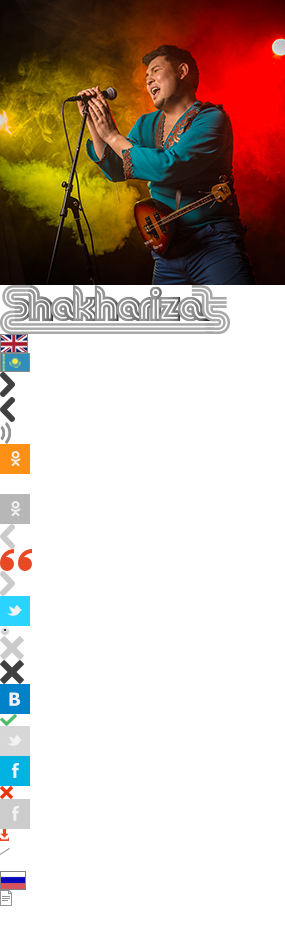
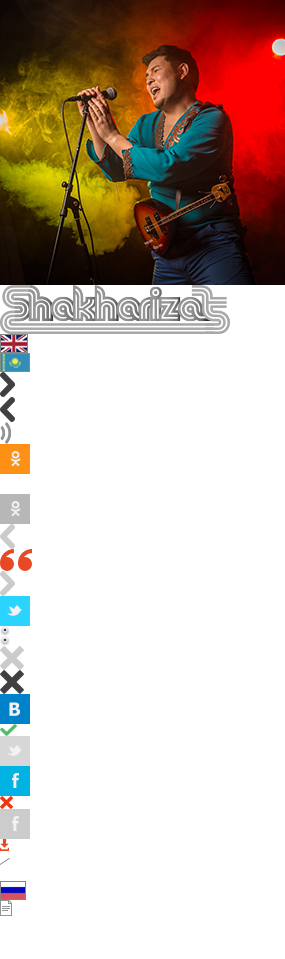
music page

diff --git a/css/style.css b/css/style.css
@@ -1,1 +1,1 @@
-@font-face{font-family:'helveticaneuecyrmedium';src:url("fonts/helveticaneuecyr-medium-webfont.eot");src:url("fonts/helveticaneuecyr-medium-webfont.eot?#iefix") format("embedded-opentype"),url("fonts/helveticaneuecyr-medium-webfont.woff") format("woff"),url("fonts/helveticaneuecyr-medium-webfont.ttf") format("truetype");font-weight:normal;font-style:normal}@font-face{font-family:'helveticaneuecyrroman';src:url("fonts/helveticaneuecyr-roman-webfont.eot");src:url("fonts/helveticaneuecyr-roman-webfont.eot?#iefix") format("embedded-opentype"),url("fonts/helveticaneuecyr-roman-webfont.woff") format("woff"),url("fonts/helveticaneuecyr-roman-webfont.ttf") format("truetype");font-weight:normal;font-style:normal}.icons-sprite,.icons-close,.icons-doc,.icons-download,.icons-en,.icons-fb,.icons-film,.icons-green-mark,.icons-it,.icons-kav,.icons-kz,.icons-logo,.icons-microphone,.icons-music,.icons-next,.icons-od,.icons-pause,.icons-pic_mid2,.icons-play,.icons-prev,.icons-rec-cross,.icons-ru,.icons-tw,.icons-vk,.icons-volume,.fancybox-close,.fancybox-prev,.fancybox-next,.events-news .box.mus:after,.events-news .box.micr:after,.events-news .box.video:after{background:url('../img/icons.png') no-repeat}.icons-close{background-position:0 -636px;height:24px;width:24px}.icons-close:hover,.icons-close.close_hover,.icons-close.close-hover{background-position:0 -660px}.icons-doc{background-position:0 -890px;height:16px;width:12px}.icons-doc:hover,.icons-doc.doc_hover,.icons-doc.doc-hover{background-position:0 -921px}.icons-download{background-position:0 -829px;height:12px;width:9px}.icons-en{background-position:0 -334px;height:19px;width:28px}.icons-fb{background-position:0 -799px;height:30px;width:30px}.icons-fb:hover,.icons-fb.fb_hover,.icons-fb.fb-hover{background-position:0 -756px}.icons-film{background-position:0 -906px;height:15px;width:16px}.icons-green-mark{background-position:0 -714px;height:12px;width:17px}.icons-it{background-position:0 -626px;height:10px;width:10px}.icons-kav{background-position:0 -549px;height:22px;width:32px}.icons-kz{background-position:0 -353px;height:19px;width:30px}.icons-logo{background-position:0 -285px;height:49px;width:230px}.icons-microphone{background-position:0 -474px;height:20px;width:15px}.icons-music{background-position:0 -855px;height:16px;width:16px}.icons-next{background-position:0 -571px;height:25px;width:15px}.icons-next:hover,.icons-next.next_hover,.icons-next.next-hover{background-position:0 -372px}.icons-od{background-position:0 -494px;height:30px;width:30px}.icons-od:hover,.icons-od.od_hover,.icons-od.od-hover{background-position:0 -444px}.icons-pause{background-position:0 -937px;height:12px;width:8px}.icons-pic_mid2{background-position:0 0;height:285px;width:285px}.icons-play{background-position:0 -841px;height:14px;width:10px}.icons-prev{background-position:0 -524px;height:25px;width:15px}.icons-prev:hover,.icons-prev.prev_hover,.icons-prev.prev-hover{background-position:0 -397px}.icons-rec-cross{background-position:0 -786px;height:13px;width:13px}.icons-ru{background-position:0 -871px;height:19px;width:26px}.icons-tw{background-position:0 -726px;height:30px;width:30px}.icons-tw:hover,.icons-tw.tw_hover,.icons-tw.tw-hover{background-position:0 -596px}.icons-vk{background-position:0 -684px;height:30px;width:30px}.icons-volume{background-position:0 -422px;height:22px;width:11px}.icon{text-indent:-9999em;display:inline-block}.header{margin-bottom:30px;padding-top:10px}.header .header-top{background:#272727;height:72px;margin-bottom:5px}.header .header-top .logo{float:left;margin-right:35px;display:block;position:relative;top:11px}.header .header-top nav a{display:block;line-height:72px;font-size:16px;float:left;color:#c1c0c0;text-decoration:none;position:relative;padding:0 10px;text-transform:uppercase}.header .header-top nav a:hover,.header .header-top nav a:focus{color:#fff}.header .header-top nav a.active{background:#e74924;border-bottom:2px solid #f8613a;line-height:70px;color:#fff}.header .header-top nav a.active:before{content:"";width:100%;height:10px;position:absolute;top:-10px;left:0;background:rgba(231,73,36,0.5)}.header .header-mid{background:url(../img/brd2.png) repeat-x 0 8px}.header .header-mid .header-mid-bg{background:#0f0f0f;color:#7e7e7e;float:left;margin-left:-5px;padding-left:5px;padding-right:5px;font-size:16px}.footer{margin-top:30px}.footer .footer-top{background:#1b1b1b;padding:30px 0}.footer .side45{float:left;width:45%;background:url(../img/border-footer.png) repeat-x 30px 0;padding-top:70px}.footer .side45 .footer-side45-content{float:right;width:390px;padding-right:40px}.footer .side65{float:left;width:55%}.footer .side65 .footer-side65-content{float:left;width:570px}.footer .side65 .footer-side65-content .title{font-size:48px;line-height:40px;text-align:right;color:#e1e1e1}.footer .side65 .footer-side65-content ul li{margin-bottom:5px;font-size:16px}.footer .side65 .footer-side65-content ul li a{color:#9c9c9c;text-decoration:underline}.footer .side65 .footer-side65-content ul li a:hover{color:#e95027}.footer .footer-bot{background:#272727;padding:20px 0 10px}.footer .footer-bot .lang{float:left}.footer .footer-bot .copyright{float:right}.footer .footer-bot .copyright a{text-decoration:none}.footer .sosials{float:right;margin-top:-50px}.footer .sosials a{-webkit-transition:none;-moz-transition:none;-o-transition:none;transition:none}.footer-search input{float:right;height:30px;padding:5px 10px;background:#4a4a4a;color:#AAA7A7;margin-right:5px;border:none;width:270px}.footer-search .search-btn{float:right;height:30px;border:none;line-height:30px;padding:0 10px;color:#fff;background:#e95027;font-size:18px}.tabs .tab-nav{margin-bottom:15px}.tabs .tab-nav:after{content:"";clear:both;display:table}.tabs .tab-nav a:first-child{float:left}.tabs .tab-nav a{float:right;width:48.5%;display:block;text-align:center;border-radius:3px;background:#a4a9ae;color:#fff;border-bottom:3px solid #83898f;font-size:14px;height:30px;line-height:30px;text-decoration:none;-webkit-transition:none;-moz-transition:none;-o-transition:none;transition:none}.tabs .tab-nav a.active{background:#4fc1e9;border-color:#3bafda}.btn{padding:0 10px;border-bottom:2px solid #f8613a;background:#e74924;text-transform:uppercase;color:#fff;display:inline-block;text-decoration:none;line-height:40px}.btn:hover,.btn:focus{border-bottom:2px solid #f8613a;background:#e9380f;color:#fff}.btn:active{border-bottom:2px solid #f8613a;background:#bd3110}.overlay{position:fixed;z-index:20;width:100%;height:100%;top:0;left:0;background:rgba(0,0,0,0.1)}.popup{top:50%;left:50%;position:fixed;z-index:21}/* fancyBox v2.1.5 fancyapps.com | fancyapps.com/fancybox/#license */.fancybox-wrap,.fancybox-skin,.fancybox-outer,.fancybox-inner,.fancybox-image,.fancybox-wrap iframe,.fancybox-wrap object,.fancybox-nav,.fancybox-nav,.fancybox-tmp{padding:0;margin:0;border:0;outline:none;vertical-align:top}.fancybox-wrap{position:absolute;top:0;left:0;z-index:8020}.fancybox-skin{position:relative;background:#f9f9f9;color:#444;padding:60px 20px 20px !important;text-shadow:none}.fancybox-opened{z-index:8030}.fancybox-opened .fancybox-skin{-webkit-box-shadow:0 10px 25px rgba(0,0,0,0.5);-moz-box-shadow:0 10px 25px rgba(0,0,0,0.5);box-shadow:0 10px 25px rgba(0,0,0,0.5)}.fancybox-outer,.fancybox-inner{position:relative}.fancybox-inner{overflow:hidden}.fancybox-type-iframe .fancybox-inner{-webkit-overflow-scrolling:touch}.fancybox-error{color:#444;font:14px/20px "Helvetica Neue",Helvetica,Arial,sans-serif;margin:0;padding:15px;white-space:nowrap}.fancybox-image,.fancybox-iframe{display:block;width:100%;height:100%}.fancybox-image{max-width:100%;max-height:100%}#fancybox-loading{background-image:url("../css/fancybox_sprite.png")}#fancybox-loading{position:fixed;top:50%;left:50%;margin-top:-22px;margin-left:-22px;background-position:0 -108px;opacity:0.8;cursor:pointer;z-index:8060}#fancybox-loading div{width:44px;height:44px;background:url("../css/fancybox_loading.gif") center center no-repeat}.fancybox-close{position:absolute;top:20px;right:20px;width:24px;height:24px;cursor:pointer;z-index:8070;background-position:0 -636px}.fancybox-close:hover,.fancybox-close.close_hover,.fancybox-close.close-hover{background-position:0 -660px}.fancybox-nav{position:absolute;top:-40px;width:15px;height:25px;cursor:pointer;text-decoration:none;-webkit-tap-highlight-color:rgba(0,0,0,0);z-index:8070;-webkit-transition:none;-moz-transition:none;-o-transition:none;transition:none}.fancybox-prev{right:80px;background-position:0 -524px}.fancybox-prev:hover,.fancybox-prev.prev_hover,.fancybox-prev.prev-hover{background-position:0 -397px}.fancybox-next{right:45px;background-position:0 -571px}.fancybox-next:hover,.fancybox-next.next_hover,.fancybox-next.next-hover{background-position:0 -372px}.fancybox-nav span{cursor:pointer;z-index:8040}.fancybox-prev span{left:7px}.fancybox-tmp{position:absolute;top:-99999px;left:-99999px;max-width:99999px;max-height:99999px;overflow:visible !important}.fancybox-lock{overflow:hidden !important;width:auto}.fancybox-lock body{overflow:hidden !important}.fancybox-lock-test{overflow-y:hidden !important}.fancybox-overlay{position:absolute;top:0;left:0;overflow:hidden;display:none;z-index:8010;background:url("../css/fancybox_overlay.png")}.fancybox-overlay-fixed{position:fixed;bottom:0;right:0}.fancybox-lock .fancybox-overlay{overflow:auto;overflow-y:scroll}.fancybox-title{position:absolute;padding:0 20px;top:20px;left:0;width:100%;height:48px;font-size:24px;text-shadow:none;z-index:8050}.fancybox-opened .fancybox-title{visibility:visible}.fancybox-title-float-wrap{position:absolute;bottom:0;right:50%;margin-bottom:-35px;z-index:8050;text-align:center}.fancybox-title-float-wrap .child{display:inline-block;margin-right:-100%;padding:2px 20px;background:transparent;background:rgba(0,0,0,0.8);-webkit-border-radius:15px;-moz-border-radius:15px;border-radius:15px;text-shadow:0 1px 2px #222;color:#FFF;font-weight:bold;line-height:24px;white-space:nowrap}.fancybox-title-outside-wrap{position:relative;margin-top:10px;color:#fff}.fancybox-title-over-wrap{position:absolute;bottom:0;left:0;color:#fff;padding:10px;background:#000;background:rgba(0,0,0,0.8)}body{font-size:14px;color:#bdbdbd;line-height:18px;background:#0f0f0f;font-family:helveticaneuecyrroman}h1,h2,h3,h4,h5,h6{margin-top:0;color:#555;line-height:1;margin-bottom:20px}h1{font-size:36px}h2{font-size:28px}h3{font-size:24px}h3,h4,h5{font-size:18px}:focus{outline:none}a{-webkit-transition:all 0.3s ease-in-out;-moz-transition:all 0.3s ease-in-out;-o-transition:all 0.3s ease-in-out;transition:all 0.3s ease-in-out;text-decoration:underline;color:#e74924}a:hover,a:focus{color:#e74924;text-decoration:none}p{margin-bottom:0}textarea{resize:none;border:2px solid #e3e4e8;border-radius:3px;padding:10px;color:#707070;font-size:13px;line-height:16px}.cf:after,.header .header-top nav:after,.footer-search:after,.inn:after,.columns:after{content:"";display:table;clear:both}.mb10{margin-bottom:10px}.mb20{margin-bottom:20px}.right{float:right}.w960{width:960px;margin:0 auto;padding:0 10px}.w960:after{content:"";clear:both;display:table}.inn{width:960px;margin:0 auto}.index-big-pic{background:url(../img/pic.jpg) 50% 0;height:700px;height:440px;position:relative}.index-big-pic:before{content:"";background:url(../img/white_corner.png) no-repeat;width:105px;height:61px;z-index:2;position:absolute;top:0;left:0}.index-big-pic .white-t{position:absolute;top:110px;left:0;z-index:2;color:#fff;width:650px;font-size:48px;line-height:41px}.index-big-pic .orange-t{position:absolute;top:220px;left:0;z-index:2;color:#e74924;width:550px;font-size:48px;line-height:40px}.audio-player{margin-bottom:50px;height:60px;background:#272727}.heading-patter-lines{background:url(../img/lines.png) no-repeat 170px 10px}.heading-patter-lines h1{color:#e1e1e1;margin:0;padding-right:3px;background:#0f0f0f;float:left}.columns .column{width:50%;float:left}.columns .column:first-child{padding-right:10px}.columns .column:last-child{padding-left:10px}.index-small-galery{margin-top:40px}.index-small-galery>.cf,.header .header-top .index-small-galery>nav,.index-small-galery>.footer-search,.index-small-galery>.inn,.index-small-galery>.columns{margin-bottom:10px}.index-small-galery .cf>a,.index-small-galery .header .header-top nav>a,.header .header-top .index-small-galery nav>a,.index-small-galery .footer-search>a,.index-small-galery .inn>a,.index-small-galery .columns>a{display:block;float:left;margin-left:10px;position:relative}.index-small-galery .cf>a:after,.index-small-galery .header .header-top nav>a:after,.header .header-top .index-small-galery nav>a:after,.index-small-galery .footer-search>a:after,.index-small-galery .inn>a:after,.index-small-galery .columns>a:after{content:"";height:2px;background:rgba(225,225,225,0.5);left:0;bottom:0}.index-small-galery .cf>a:first-child,.index-small-galery .header .header-top nav>a:first-child,.header .header-top .index-small-galery nav>a:first-child,.index-small-galery .footer-search>a:first-child,.index-small-galery .inn>a:first-child,.index-small-galery .columns>a:first-child{margin-left:0}.index-small-galery .cf>a img,.index-small-galery .header .header-top nav>a img,.header .header-top .index-small-galery nav>a img,.index-small-galery .footer-search>a img,.index-small-galery .inn>a img,.index-small-galery .columns>a img{display:block;height:80px;width:110px}.index-small-galery .show-all{text-align:right}.events-news{margin:17px -10px 0}.events-news .box{width:225px;margin:0 10px 20px;float:left;height:160px;position:relative;text-align:right;overflow:hidden;background:#e1e1e1;padding:10px 10px 10px 20px}.events-news .box:before{content:"";background:url(../img/corner-top.png) no-repeat;width:84px;height:49px;top:0;left:0;z-index:1;position:absolute}.events-news .box:after{content:"";position:absolute;z-index:2}.events-news .box.mus:after{background-position:0 -855px;width:16px;height:16px;top:10px;left:8px}.events-news .box.micr:after{background-position:0 -474px;width:15px;height:20px;top:8px;left:10px}.events-news .box.video:after{background-position:0 -906px;width:16px;height:15px;top:8px;left:10px}.events-news .box.video img{display:block;float:left;width:225px;height:160px;margin:-10px 0 0 -20px}.events-news .box .date{color:#aeaeae}.events-news .box .title{padding-left:30px;margin:0 0 5px}.events-news .box .title,.events-news .box .title a{color:#323232;font-size:18px;text-decoration:none}.events-news .box .title:hover,.events-news .box .title a:hover{color:#e95027;text-decoration:none}.events-news .box .description{color:#707070;max-height:72px;overflow:hidden;text-overflow:ellipsis}.index-mid-galery{margin-top:30px}.index-mid-galery>.cf a,.header .header-top .index-mid-galery>nav a,.index-mid-galery>.footer-search a,.index-mid-galery>.inn a,.index-mid-galery>.columns a{display:block;float:left;margin-left:15px;width:141px;height:141px}.index-mid-galery>.cf a.active img,.header .header-top .index-mid-galery>nav a.active img,.index-mid-galery>.footer-search a.active img,.index-mid-galery>.inn a.active img,.index-mid-galery>.columns a.active img{border:2px solid #bd4322}.index-mid-galery>.cf a img,.header .header-top .index-mid-galery>nav a img,.index-mid-galery>.footer-search a img,.index-mid-galery>.inn a img,.index-mid-galery>.columns a img{width:100%;border:2px solid #0f0f0f;height:100%}.index-mid-galery .like-tamada{margin-top:20px;text-align:right}.content-left{float:left;width:560px}.aside-right{float:right;width:380px}.aside-right .heading{padding-left:25px;position:relative;color:#fff;margin-bottom:10px;font-size:18px}.aside-right .heading .icon{position:absolute;left:0;top:2px;z-index:2}.aside-right .feature-event{margin:0 0 20px}.aside-right .feature-event .date{margin-bottom:2px;color:#adadad}.aside-right .feature-event .date span{color:#e74924}.aside-right .feature-event .description{color:#fff}.albom{border:1px solid #363636;padding:10px;margin-bottom:20px}.albom .albom-pic{float:left;width:250px}.albom .albom-pic img{max-width:100%}.albom-info{padding-left:270px}.albom-info .albom-name{color:#fff;font-size:18px;margin-bottom:5px}.albom-info .download{font-weight:bold;margin-bottom:10px}.albom-info .text{color:#bdbdbd;line-height:24px}.mb10{margin-bottom:10px}.icons-download{margin-right:5px;top:2px;position:relative}
+@font-face{font-family:'helveticaneuecyrmedium';src:url("fonts/helveticaneuecyr-medium-webfont.eot");src:url("fonts/helveticaneuecyr-medium-webfont.eot?#iefix") format("embedded-opentype"),url("fonts/helveticaneuecyr-medium-webfont.woff") format("woff"),url("fonts/helveticaneuecyr-medium-webfont.ttf") format("truetype");font-weight:normal;font-style:normal}@font-face{font-family:'helveticaneuecyrroman';src:url("fonts/helveticaneuecyr-roman-webfont.eot");src:url("fonts/helveticaneuecyr-roman-webfont.eot?#iefix") format("embedded-opentype"),url("fonts/helveticaneuecyr-roman-webfont.woff") format("woff"),url("fonts/helveticaneuecyr-roman-webfont.ttf") format("truetype");font-weight:normal;font-style:normal}.icons-sprite,.icons-circle,.icons-close,.icons-doc,.icons-download,.icons-en,.icons-fb,.icons-film,.icons-green-mark,.icons-it,.icons-kav,.icons-kz,.icons-logo,.icons-microphone,.icons-music,.icons-next,.icons-od,.icons-pause,.icons-pic_mid2,.icons-play,.icons-prev,.icons-rec-cross,.icons-ru,.icons-tw,.icons-vk,.icons-volume,.fancybox-close,.fancybox-prev,.fancybox-next,.events-news .box.mus:after,.events-news .box.micr:after,.events-news .box.video:after{background:url('../img/icons.png') no-repeat}.icons-circle{background-position:0 -626px;height:10px;width:10px}.icons-close{background-position:0 -646px;height:24px;width:24px}.icons-close:hover,.icons-close.close_hover,.icons-close.close-hover{background-position:0 -670px}.icons-doc{background-position:0 -900px;height:16px;width:12px}.icons-doc:hover,.icons-doc.doc_hover,.icons-doc.doc-hover{background-position:0 -931px}.icons-download{background-position:0 -839px;height:12px;width:9px}.icons-en{background-position:0 -334px;height:19px;width:28px}.icons-fb{background-position:0 -809px;height:30px;width:30px}.icons-fb:hover,.icons-fb.fb_hover,.icons-fb.fb-hover{background-position:0 -766px}.icons-film{background-position:0 -916px;height:15px;width:16px}.icons-green-mark{background-position:0 -724px;height:12px;width:17px}.icons-it{background-position:0 -636px;height:10px;width:10px}.icons-kav{background-position:0 -549px;height:22px;width:32px}.icons-kz{background-position:0 -353px;height:19px;width:30px}.icons-logo{background-position:0 -285px;height:49px;width:230px}.icons-microphone{background-position:0 -474px;height:20px;width:15px}.icons-music{background-position:0 -865px;height:16px;width:16px}.icons-next{background-position:0 -571px;height:25px;width:15px}.icons-next:hover,.icons-next.next_hover,.icons-next.next-hover{background-position:0 -372px}.icons-od{background-position:0 -494px;height:30px;width:30px}.icons-od:hover,.icons-od.od_hover,.icons-od.od-hover{background-position:0 -444px}.icons-pause{background-position:0 -947px;height:12px;width:8px}.icons-pic_mid2{background-position:0 0;height:285px;width:285px}.icons-play{background-position:0 -851px;height:14px;width:10px}.icons-prev{background-position:0 -524px;height:25px;width:15px}.icons-prev:hover,.icons-prev.prev_hover,.icons-prev.prev-hover{background-position:0 -397px}.icons-rec-cross{background-position:0 -796px;height:13px;width:13px}.icons-ru{background-position:0 -881px;height:19px;width:26px}.icons-tw{background-position:0 -736px;height:30px;width:30px}.icons-tw:hover,.icons-tw.tw_hover,.icons-tw.tw-hover{background-position:0 -596px}.icons-vk{background-position:0 -694px;height:30px;width:30px}.icons-volume{background-position:0 -422px;height:22px;width:11px}.icon{text-indent:-9999em;display:inline-block}.header{margin-bottom:30px;padding-top:10px}.header .header-top{background:#272727;height:72px;margin-bottom:5px}.header .header-top .logo{float:left;margin-right:35px;display:block;position:relative;top:11px}.header .header-top nav a{display:block;line-height:72px;font-size:16px;float:left;color:#c1c0c0;text-decoration:none;position:relative;padding:0 10px;text-transform:uppercase}.header .header-top nav a:hover,.header .header-top nav a:focus{color:#fff}.header .header-top nav a.active{background:#e74924;border-bottom:2px solid #f8613a;line-height:70px;color:#fff}.header .header-top nav a.active:before{content:"";width:100%;height:10px;position:absolute;top:-10px;left:0;background:rgba(231,73,36,0.5)}.header .header-mid{background:url(../img/brd2.png) repeat-x 0 8px}.header .header-mid .header-mid-bg{background:#0f0f0f;color:#7e7e7e;float:left;margin-left:-5px;padding-left:5px;padding-right:5px;font-size:16px}.footer{margin-top:30px}.footer .footer-top{background:#1b1b1b;padding:30px 0}.footer .side45{float:left;width:45%;background:url(../img/border-footer.png) repeat-x 30px 0;padding-top:70px}.footer .side45 .footer-side45-content{float:right;width:390px;padding-right:40px}.footer .side65{float:left;width:55%}.footer .side65 .footer-side65-content{float:left;width:570px}.footer .side65 .footer-side65-content .title{font-size:48px;line-height:40px;text-align:right;color:#e1e1e1}.footer .side65 .footer-side65-content ul li{margin-bottom:5px;font-size:16px}.footer .side65 .footer-side65-content ul li a{color:#9c9c9c;text-decoration:underline}.footer .side65 .footer-side65-content ul li a:hover{color:#e95027}.footer .footer-bot{background:#272727;padding:20px 0 10px}.footer .footer-bot .lang{float:left}.footer .footer-bot .copyright{float:right}.footer .footer-bot .copyright a{text-decoration:none}.footer .sosials{float:right;margin-top:-50px}.footer .sosials a{-webkit-transition:none;-moz-transition:none;-o-transition:none;transition:none}.footer-search input{float:right;height:30px;padding:5px 10px;background:#4a4a4a;color:#AAA7A7;margin-right:5px;border:none;width:270px}.footer-search .search-btn{float:right;height:30px;border:none;line-height:30px;padding:0 10px;color:#fff;background:#e95027;font-size:18px}.tabs .tab-nav{margin-bottom:15px}.tabs .tab-nav:after{content:"";clear:both;display:table}.tabs .tab-nav a:first-child{float:left}.tabs .tab-nav a{float:right;width:48.5%;display:block;text-align:center;border-radius:3px;background:#a4a9ae;color:#fff;border-bottom:3px solid #83898f;font-size:14px;height:30px;line-height:30px;text-decoration:none;-webkit-transition:none;-moz-transition:none;-o-transition:none;transition:none}.tabs .tab-nav a.active{background:#4fc1e9;border-color:#3bafda}.btn{padding:0 10px;border-bottom:2px solid #f8613a;background:#e74924;text-transform:uppercase;color:#fff;display:inline-block;text-decoration:none;line-height:40px}.btn:hover,.btn:focus{border-bottom:2px solid #f8613a;background:#e9380f;color:#fff}.btn:active{border-bottom:2px solid #f8613a;background:#bd3110}.overlay{position:fixed;z-index:20;width:100%;height:100%;top:0;left:0;background:rgba(0,0,0,0.1)}.popup{top:50%;left:50%;position:fixed;z-index:21}/* fancyBox v2.1.5 fancyapps.com | fancyapps.com/fancybox/#license */.fancybox-wrap,.fancybox-skin,.fancybox-outer,.fancybox-inner,.fancybox-image,.fancybox-wrap iframe,.fancybox-wrap object,.fancybox-nav,.fancybox-nav,.fancybox-tmp{padding:0;margin:0;border:0;outline:none;vertical-align:top}.fancybox-wrap{position:absolute;top:0;left:0;z-index:8020}.fancybox-skin{position:relative;background:#f9f9f9;color:#444;padding:60px 20px 20px !important;text-shadow:none}.fancybox-opened{z-index:8030}.fancybox-opened .fancybox-skin{-webkit-box-shadow:0 10px 25px rgba(0,0,0,0.5);-moz-box-shadow:0 10px 25px rgba(0,0,0,0.5);box-shadow:0 10px 25px rgba(0,0,0,0.5)}.fancybox-outer,.fancybox-inner{position:relative}.fancybox-inner{overflow:hidden}.fancybox-type-iframe .fancybox-inner{-webkit-overflow-scrolling:touch}.fancybox-error{color:#444;font:14px/20px "Helvetica Neue",Helvetica,Arial,sans-serif;margin:0;padding:15px;white-space:nowrap}.fancybox-image,.fancybox-iframe{display:block;width:100%;height:100%}.fancybox-image{max-width:100%;max-height:100%}#fancybox-loading{background-image:url("../css/fancybox_sprite.png")}#fancybox-loading{position:fixed;top:50%;left:50%;margin-top:-22px;margin-left:-22px;background-position:0 -108px;opacity:0.8;cursor:pointer;z-index:8060}#fancybox-loading div{width:44px;height:44px;background:url("../css/fancybox_loading.gif") center center no-repeat}.fancybox-close{position:absolute;top:20px;right:20px;width:24px;height:24px;cursor:pointer;z-index:8070;background-position:0 -646px}.fancybox-close:hover,.fancybox-close.close_hover,.fancybox-close.close-hover{background-position:0 -670px}.fancybox-nav{position:absolute;top:-40px;width:15px;height:25px;cursor:pointer;text-decoration:none;-webkit-tap-highlight-color:rgba(0,0,0,0);z-index:8070;-webkit-transition:none;-moz-transition:none;-o-transition:none;transition:none}.fancybox-prev{right:80px;background-position:0 -524px}.fancybox-prev:hover,.fancybox-prev.prev_hover,.fancybox-prev.prev-hover{background-position:0 -397px}.fancybox-next{right:45px;background-position:0 -571px}.fancybox-next:hover,.fancybox-next.next_hover,.fancybox-next.next-hover{background-position:0 -372px}.fancybox-nav span{cursor:pointer;z-index:8040}.fancybox-prev span{left:7px}.fancybox-tmp{position:absolute;top:-99999px;left:-99999px;max-width:99999px;max-height:99999px;overflow:visible !important}.fancybox-lock{overflow:hidden !important;width:auto}.fancybox-lock body{overflow:hidden !important}.fancybox-lock-test{overflow-y:hidden !important}.fancybox-overlay{position:absolute;top:0;left:0;overflow:hidden;display:none;z-index:8010;background:url("../css/fancybox_overlay.png")}.fancybox-overlay-fixed{position:fixed;bottom:0;right:0}.fancybox-lock .fancybox-overlay{overflow:auto;overflow-y:scroll}.fancybox-title{position:absolute;padding:0 20px;top:20px;left:0;width:100%;height:48px;font-size:24px;text-shadow:none;z-index:8050}.fancybox-opened .fancybox-title{visibility:visible}.fancybox-title-float-wrap{position:absolute;bottom:0;right:50%;margin-bottom:-35px;z-index:8050;text-align:center}.fancybox-title-float-wrap .child{display:inline-block;margin-right:-100%;padding:2px 20px;background:transparent;background:rgba(0,0,0,0.8);-webkit-border-radius:15px;-moz-border-radius:15px;border-radius:15px;text-shadow:0 1px 2px #222;color:#FFF;font-weight:bold;line-height:24px;white-space:nowrap}.fancybox-title-outside-wrap{position:relative;margin-top:10px;color:#fff}.fancybox-title-over-wrap{position:absolute;bottom:0;left:0;color:#fff;padding:10px;background:#000;background:rgba(0,0,0,0.8)}body{font-size:14px;color:#bdbdbd;line-height:18px;background:#0f0f0f;font-family:helveticaneuecyrroman}h1,h2,h3,h4,h5,h6{margin-top:0;color:#555;line-height:1;margin-bottom:20px}h1{font-size:36px}h2{font-size:28px}h3{font-size:24px}h3,h4,h5{font-size:18px}:focus{outline:none}a{-webkit-transition:all 0.3s ease-in-out;-moz-transition:all 0.3s ease-in-out;-o-transition:all 0.3s ease-in-out;transition:all 0.3s ease-in-out;text-decoration:underline;color:#e74924}a:hover,a:focus{color:#e74924;text-decoration:none}p{margin-bottom:0}textarea{resize:none;border:2px solid #e3e4e8;border-radius:3px;padding:10px;color:#707070;font-size:13px;line-height:16px}.cf:after,.header .header-top nav:after,.footer-search:after,.inn:after,.columns:after{content:"";display:table;clear:both}.mb10{margin-bottom:10px}.mb20{margin-bottom:20px}.right{float:right}.w960{width:960px;margin:0 auto;padding:0 10px}.w960:after{content:"";clear:both;display:table}.inn{width:960px;margin:0 auto}.index-big-pic{background:url(../img/pic.jpg) 50% 0;height:700px;height:440px;position:relative}.index-big-pic:before{content:"";background:url(../img/white_corner.png) no-repeat;width:105px;height:61px;z-index:2;position:absolute;top:0;left:0}.index-big-pic .white-t{position:absolute;top:110px;left:0;z-index:2;color:#fff;width:650px;font-size:48px;line-height:41px}.index-big-pic .orange-t{position:absolute;top:220px;left:0;z-index:2;color:#e74924;width:550px;font-size:48px;line-height:40px}.audio-player{margin-bottom:50px;height:60px;background:#272727}.heading-patter-lines{background:url(../img/lines.png) no-repeat 170px 10px;margin-bottom:40px}.heading-patter-lines h1{color:#e1e1e1;margin:0;padding-right:3px;background:#0f0f0f;float:left}.columns .column{width:50%;float:left}.columns .column:first-child{padding-right:10px}.columns .column:last-child{padding-left:10px}.index-small-galery{margin-top:40px}.index-small-galery>.cf,.header .header-top .index-small-galery>nav,.index-small-galery>.footer-search,.index-small-galery>.inn,.index-small-galery>.columns{margin-bottom:10px}.index-small-galery .cf>a,.index-small-galery .header .header-top nav>a,.header .header-top .index-small-galery nav>a,.index-small-galery .footer-search>a,.index-small-galery .inn>a,.index-small-galery .columns>a{display:block;float:left;margin-left:10px;position:relative}.index-small-galery .cf>a:after,.index-small-galery .header .header-top nav>a:after,.header .header-top .index-small-galery nav>a:after,.index-small-galery .footer-search>a:after,.index-small-galery .inn>a:after,.index-small-galery .columns>a:after{content:"";height:2px;background:rgba(225,225,225,0.5);left:0;bottom:0}.index-small-galery .cf>a:first-child,.index-small-galery .header .header-top nav>a:first-child,.header .header-top .index-small-galery nav>a:first-child,.index-small-galery .footer-search>a:first-child,.index-small-galery .inn>a:first-child,.index-small-galery .columns>a:first-child{margin-left:0}.index-small-galery .cf>a img,.index-small-galery .header .header-top nav>a img,.header .header-top .index-small-galery nav>a img,.index-small-galery .footer-search>a img,.index-small-galery .inn>a img,.index-small-galery .columns>a img{display:block;height:80px;width:110px}.index-small-galery .show-all{text-align:right}.events-news{margin:17px -10px 0}.events-news .box{width:225px;margin:0 10px 20px;float:left;height:160px;position:relative;text-align:right;overflow:hidden;background:#e1e1e1;padding:10px 10px 10px 20px}.events-news .box:before{content:"";background:url(../img/corner-top.png) no-repeat;width:84px;height:49px;top:0;left:0;z-index:1;position:absolute}.events-news .box:after{content:"";position:absolute;z-index:2}.events-news .box.mus:after{background-position:0 -865px;width:16px;height:16px;top:10px;left:8px}.events-news .box.micr:after{background-position:0 -474px;width:15px;height:20px;top:8px;left:10px}.events-news .box.video:after{background-position:0 -916px;width:16px;height:15px;top:8px;left:10px}.events-news .box.video img{display:block;float:left;width:225px;height:160px;margin:-10px 0 0 -20px}.events-news .box .date{color:#aeaeae}.events-news .box .title{padding-left:30px;margin:0 0 5px}.events-news .box .title,.events-news .box .title a{color:#323232;font-size:18px;text-decoration:none}.events-news .box .title:hover,.events-news .box .title a:hover{color:#e95027;text-decoration:none}.events-news .box .description{color:#707070;max-height:72px;overflow:hidden;text-overflow:ellipsis}.index-mid-galery{margin-top:30px}.index-mid-galery>.cf a,.header .header-top .index-mid-galery>nav a,.index-mid-galery>.footer-search a,.index-mid-galery>.inn a,.index-mid-galery>.columns a{display:block;float:left;margin-left:15px;width:141px;height:141px}.index-mid-galery>.cf a.active img,.header .header-top .index-mid-galery>nav a.active img,.index-mid-galery>.footer-search a.active img,.index-mid-galery>.inn a.active img,.index-mid-galery>.columns a.active img{border:2px solid #bd4322}.index-mid-galery>.cf a img,.header .header-top .index-mid-galery>nav a img,.index-mid-galery>.footer-search a img,.index-mid-galery>.inn a img,.index-mid-galery>.columns a img{width:100%;border:2px solid #0f0f0f;height:100%}.index-mid-galery .like-tamada{margin-top:20px;text-align:right}.content-left{float:left;width:560px}.aside-right{float:right;width:380px}.aside-right .heading{padding-left:25px;position:relative;color:#fff;margin-bottom:10px;font-size:18px}.aside-right .heading .icon{position:absolute;left:0;top:2px;z-index:2}.aside-right .feature-event{margin:0 0 20px}.aside-right .feature-event .date{margin-bottom:2px;color:#adadad}.aside-right .feature-event .date span{color:#e74924}.aside-right .feature-event .description{color:#fff}.albom{border:1px solid #363636;padding:10px;margin-bottom:20px}.albom:hover{border:1px solid #959595;box-shadow:0 0 0 1px #959595}.albom .albom-pic{float:left;width:250px}.albom .albom-pic img{max-width:100%}.albom-info{padding-left:270px}.albom-info .albom-name{color:#fff;font-size:18px;margin-bottom:5px}.albom-info .download{font-weight:bold;margin-bottom:10px}.albom-info .text{color:#bdbdbd;line-height:24px}.mb10{margin-bottom:10px}.icons-download{margin-right:5px;top:2px;position:relative}.random-pics{margin-top:20px}.random-pics img{float:left;width:33.332%;display:block;height:127px}.albom-table{width:100%}.albom-table td{padding:5px 10px}.albom-table .name{width:280px}.albom-table .name .title{color:#fff;float:left;width:220px}.albom-table .name .song-length{float:right;color:#fff}.albom-table .play{cursor:pointer}.albom-table .playing-td{display:none}.albom-table .playing-td .pause{cursor:pointer;float:left;margin-right:15px}.albom-table .playing-td .song-duration{position:relative;height:8px;float:left;z-index:2;width:100px;background:#494949;border-radius:10px;top:3px}.albom-table .playing-td .song-duration .volume{position:absolute;right:-22px;top:-6px;z-index:2}.albom-table .playing-td .song-duration .duration-passed{position:absolute;height:100%;width:50%;background:#ea5127;border-radius:10px}.albom-table .playing-td .song-duration .duration-passed .icons-circle{position:absolute;right:-4px;cursor:pointer}.albom-table .playing .title,.albom-table .playing .song-length{color:#ed5d2e}.albom-table .playing .icons-play{display:none}.albom-table .playing .playing-td{display:block}.albom-table .audio-timer .icons-play{top:2px;position:relative}.albom-table .download{width:120px}.albom-table .download .icons-doc{margin-right:5px}.albom-table .download .icons-doc{margin-right:5px;position:relative;top:2px}

diff --git a/music.html b/music.html
@@ -67,6 +67,116 @@
 						</div>
 					</div>
 				</div>
+				<table class="albom-table">
+					<tr class="playing">
+						<td class="name">
+							<span class="title">Track 1 - Unknown</span>
+							<span class="song-length"> 3:20</span>
+						</td>
+						<td class="audio-timer">
+							<span class="play icon icons-play"></span>
+							<span class="playing-td cf">
+								<span class="pause icon icons-pause"></span>
+								<span class="song-duration">
+
+									<span class="duration-passed">
+										<span class="icon icons-circle">&nbsp;</span>
+									</span>
+									<span class="volume icon icons-volume"></span>
+								</span>
+								<span class="volume"></span>
+							</span>
+						</td>
+						<td class="download">
+							<i class="icon icons-doc"></i>
+							<a href="#"><i class="icon icons-download"></i>Скачать </a>
+						</td>
+					</tr>
+					<tr>
+						<td class="name">
+							<span class="title">Track 1 - Unknown</span>
+							<span class="song-length"> 3:20</span>
+						</td>
+						<td class="audio-timer">
+							<span class="play icon icons-play">
+							</span>
+							<span class="playing-td cf">
+								<span class="pause icon icons-pause"></span>
+								<span class="song-duration">
+									<span class="icon icons-circle"></span>
+								</span>
+								<span class="volume"></span>
+							</span>
+						</td>
+						<td class="download">
+							<i class="icon icons-doc"></i>
+							<a href="#"><i class="icon icons-download"></i>Скачать </a>
+						</td>
+					</tr>
+					<tr>
+						<td class="name">
+							<span class="title">Track 1 - Unknown</span>
+							<span class="song-length"> 3:20</span>
+						</td>
+						<td class="audio-timer">
+							<span class="play icon icons-play">
+							</span>
+							<span class="playing-td cf">
+								<span class="pause icon icons-pause"></span>
+								<span class="song-duration">
+									<span class="icon icons-circle"></span>
+								</span>
+								<span class="volume"></span>
+							</span>
+						</td>
+						<td class="download">
+							<i class="icon icons-doc"></i>
+							<a href="#"><i class="icon icons-download"></i>Скачать </a>
+						</td>
+					</tr>
+					<tr>
+						<td class="name">
+							<span class="title">Track 1 - Unknown</span>
+							<span class="song-length"> 3:20</span>
+						</td>
+						<td class="audio-timer">
+							<span class="play icon icons-play">
+							</span>
+							<span class="playing-td cf">
+								<span class="pause icon icons-pause"></span>
+								<span class="song-duration">
+									<span class="icon icons-circle"></span>
+								</span>
+								<span class="volume"></span>
+							</span>
+						</td>
+						<td class="download">
+							<i class="icon icons-doc"></i>
+							<a href="#"><i class="icon icons-download"></i>Скачать </a>
+						</td>
+					</tr>
+					<tr>
+						<td class="name">
+							<span class="title">Track 1 - Unknown</span>
+							<span class="song-length"> 3:20</span>
+						</td>
+						<td class="audio-timer">
+							<span class="play icon icons-play">
+							</span>
+							<span class="playing-td cf">
+								<span class="pause icon icons-pause"></span>
+								<span class="song-duration">
+									<span class="icon icons-circle"></span>
+								</span>
+								<span class="volume"></span>
+							</span>
+						</td>
+						<td class="download">
+							<i class="icon icons-doc"></i>
+							<a href="#"><i class="icon icons-download"></i>Скачать </a>
+						</td>
+					</tr>
+				</table>
 			</div>
 			<aside class="aside-right">
 				<div class="heading">
@@ -87,6 +197,14 @@
 					</div>
 					<div class="description">
 					Проснувшись однажды утром после беспокойного сна, Грегор Замза обнаружил, что он у себя в постели превратился в страшное насекомое. Лежа на </div>
+				</div>
+				<div class="random-pics">
+					<img src="img/pic_mid2.jpg" alt=""/>
+					<img src="img/pic_mid2.jpg" alt=""/>
+					<img src="img/pic_mid2.jpg" alt=""/>
+					<img src="img/pic_mid2.jpg" alt=""/>
+					<img src="img/pic_mid2.jpg" alt=""/>
+					<img src="img/pic_mid2.jpg" alt=""/>
 				</div>
 			</aside>
 		</div>

diff --git a/sass/_main.scss b/sass/_main.scss
@@ -128,6 +128,7 @@ textarea {
 }
 .heading-patter-lines {
 	background: url(../img/lines.png) no-repeat 170px 10px;
+	margin-bottom: 40px;
 	h1 {
 		color:#e1e1e1;
 		margin:0;
@@ -324,7 +325,10 @@ textarea {
 	border:1px solid #363636;
 	padding:10px;
 	margin-bottom: 20px;
-
+	&:hover {
+		border:1px solid #959595;
+		box-shadow:0 0 0 1px #959595;
+	}
 	.albom-pic {
 		float:left;
 		width:250px;
@@ -356,4 +360,102 @@ textarea {
 	margin-right: 5px;
 	top:2px;
 	position: relative;
+}
+.random-pics {
+	margin-top:20px;
+	img {
+		float:left;
+		width:33.332%;
+		display: block;
+		height:127px;
+	}
+}
+
+.albom-table {
+	width:100%;
+	td {
+		padding:5px 10px;
+	}
+	.name {
+		width:280px;
+		.title {
+			color:#fff;
+			float:left;
+			width:220px;
+		}
+		.song-length {
+			float:right;
+			color:#fff;
+		}
+	}
+	.play {
+		cursor: pointer;
+	}
+	.playing-td {
+		display: none;
+		.pause {
+			cursor: pointer;
+			float:left;
+			margin-right: 15px;
+		}
+
+		.song-duration {
+			position: relative;
+			height:8px;
+			float: left;
+			z-index: 2;
+			width:100px;
+			background: #494949;
+			border-radius: 10px;
+			top:3px;
+			.volume {
+				position: absolute;
+				right: -22px;
+				top: -6px;
+				z-index: 2;
+			}
+			.duration-passed {
+				position: absolute;
+				height:100%;
+				width:50%;
+				background: #ea5127;
+				border-radius: 10px;
+
+				.icons-circle {
+					position: absolute;
+					right:-4px;
+					cursor: pointer;
+				}
+			}
+		}
+	}
+	.playing {
+		.title,.song-length{
+			color:#ed5d2e;
+		}
+		.icons-play {
+			display: none;
+		}
+		.playing-td {
+			display: block;
+		}
+	}
+	.audio-timer {
+		.icons-play {
+			top:2px;
+			position: relative;
+		}
+
+	}
+	.download {
+		width:120px;
+		.icons-doc {
+			margin-right: 5px;
+		}
+		.icons-doc {
+			margin-right: 5px;
+			position: relative;
+			top:2px;
+		}
+	}
 }
